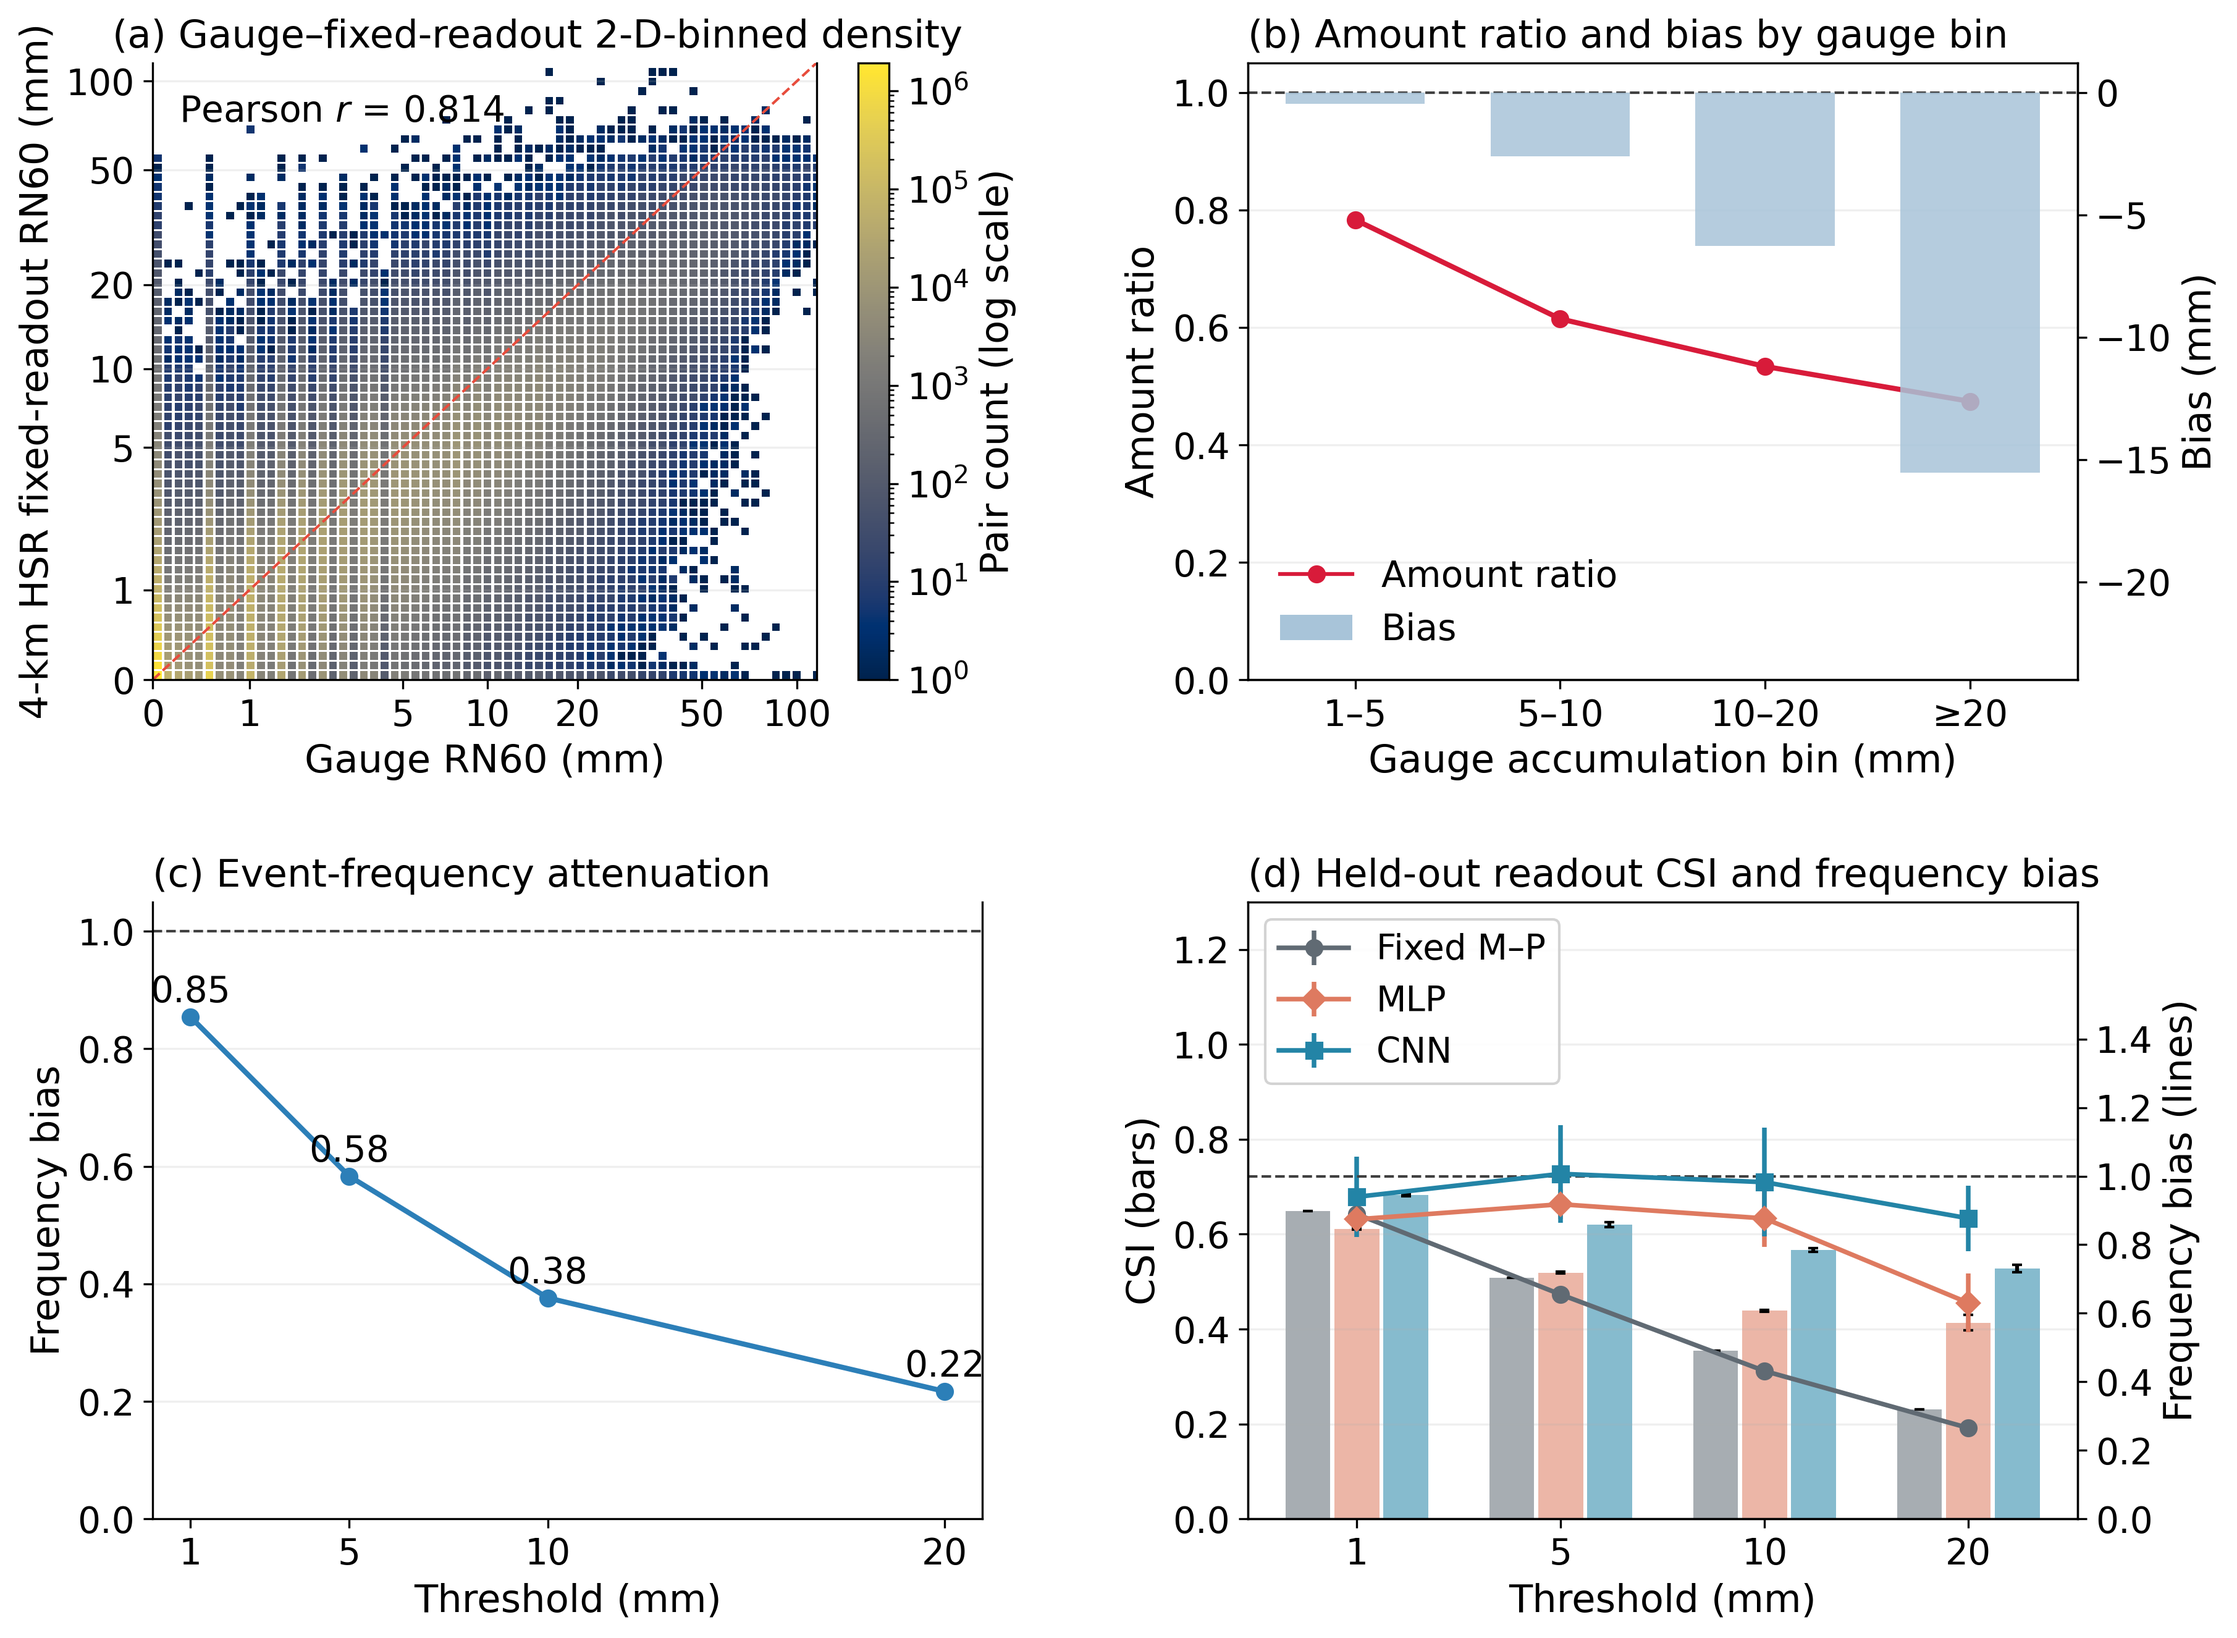
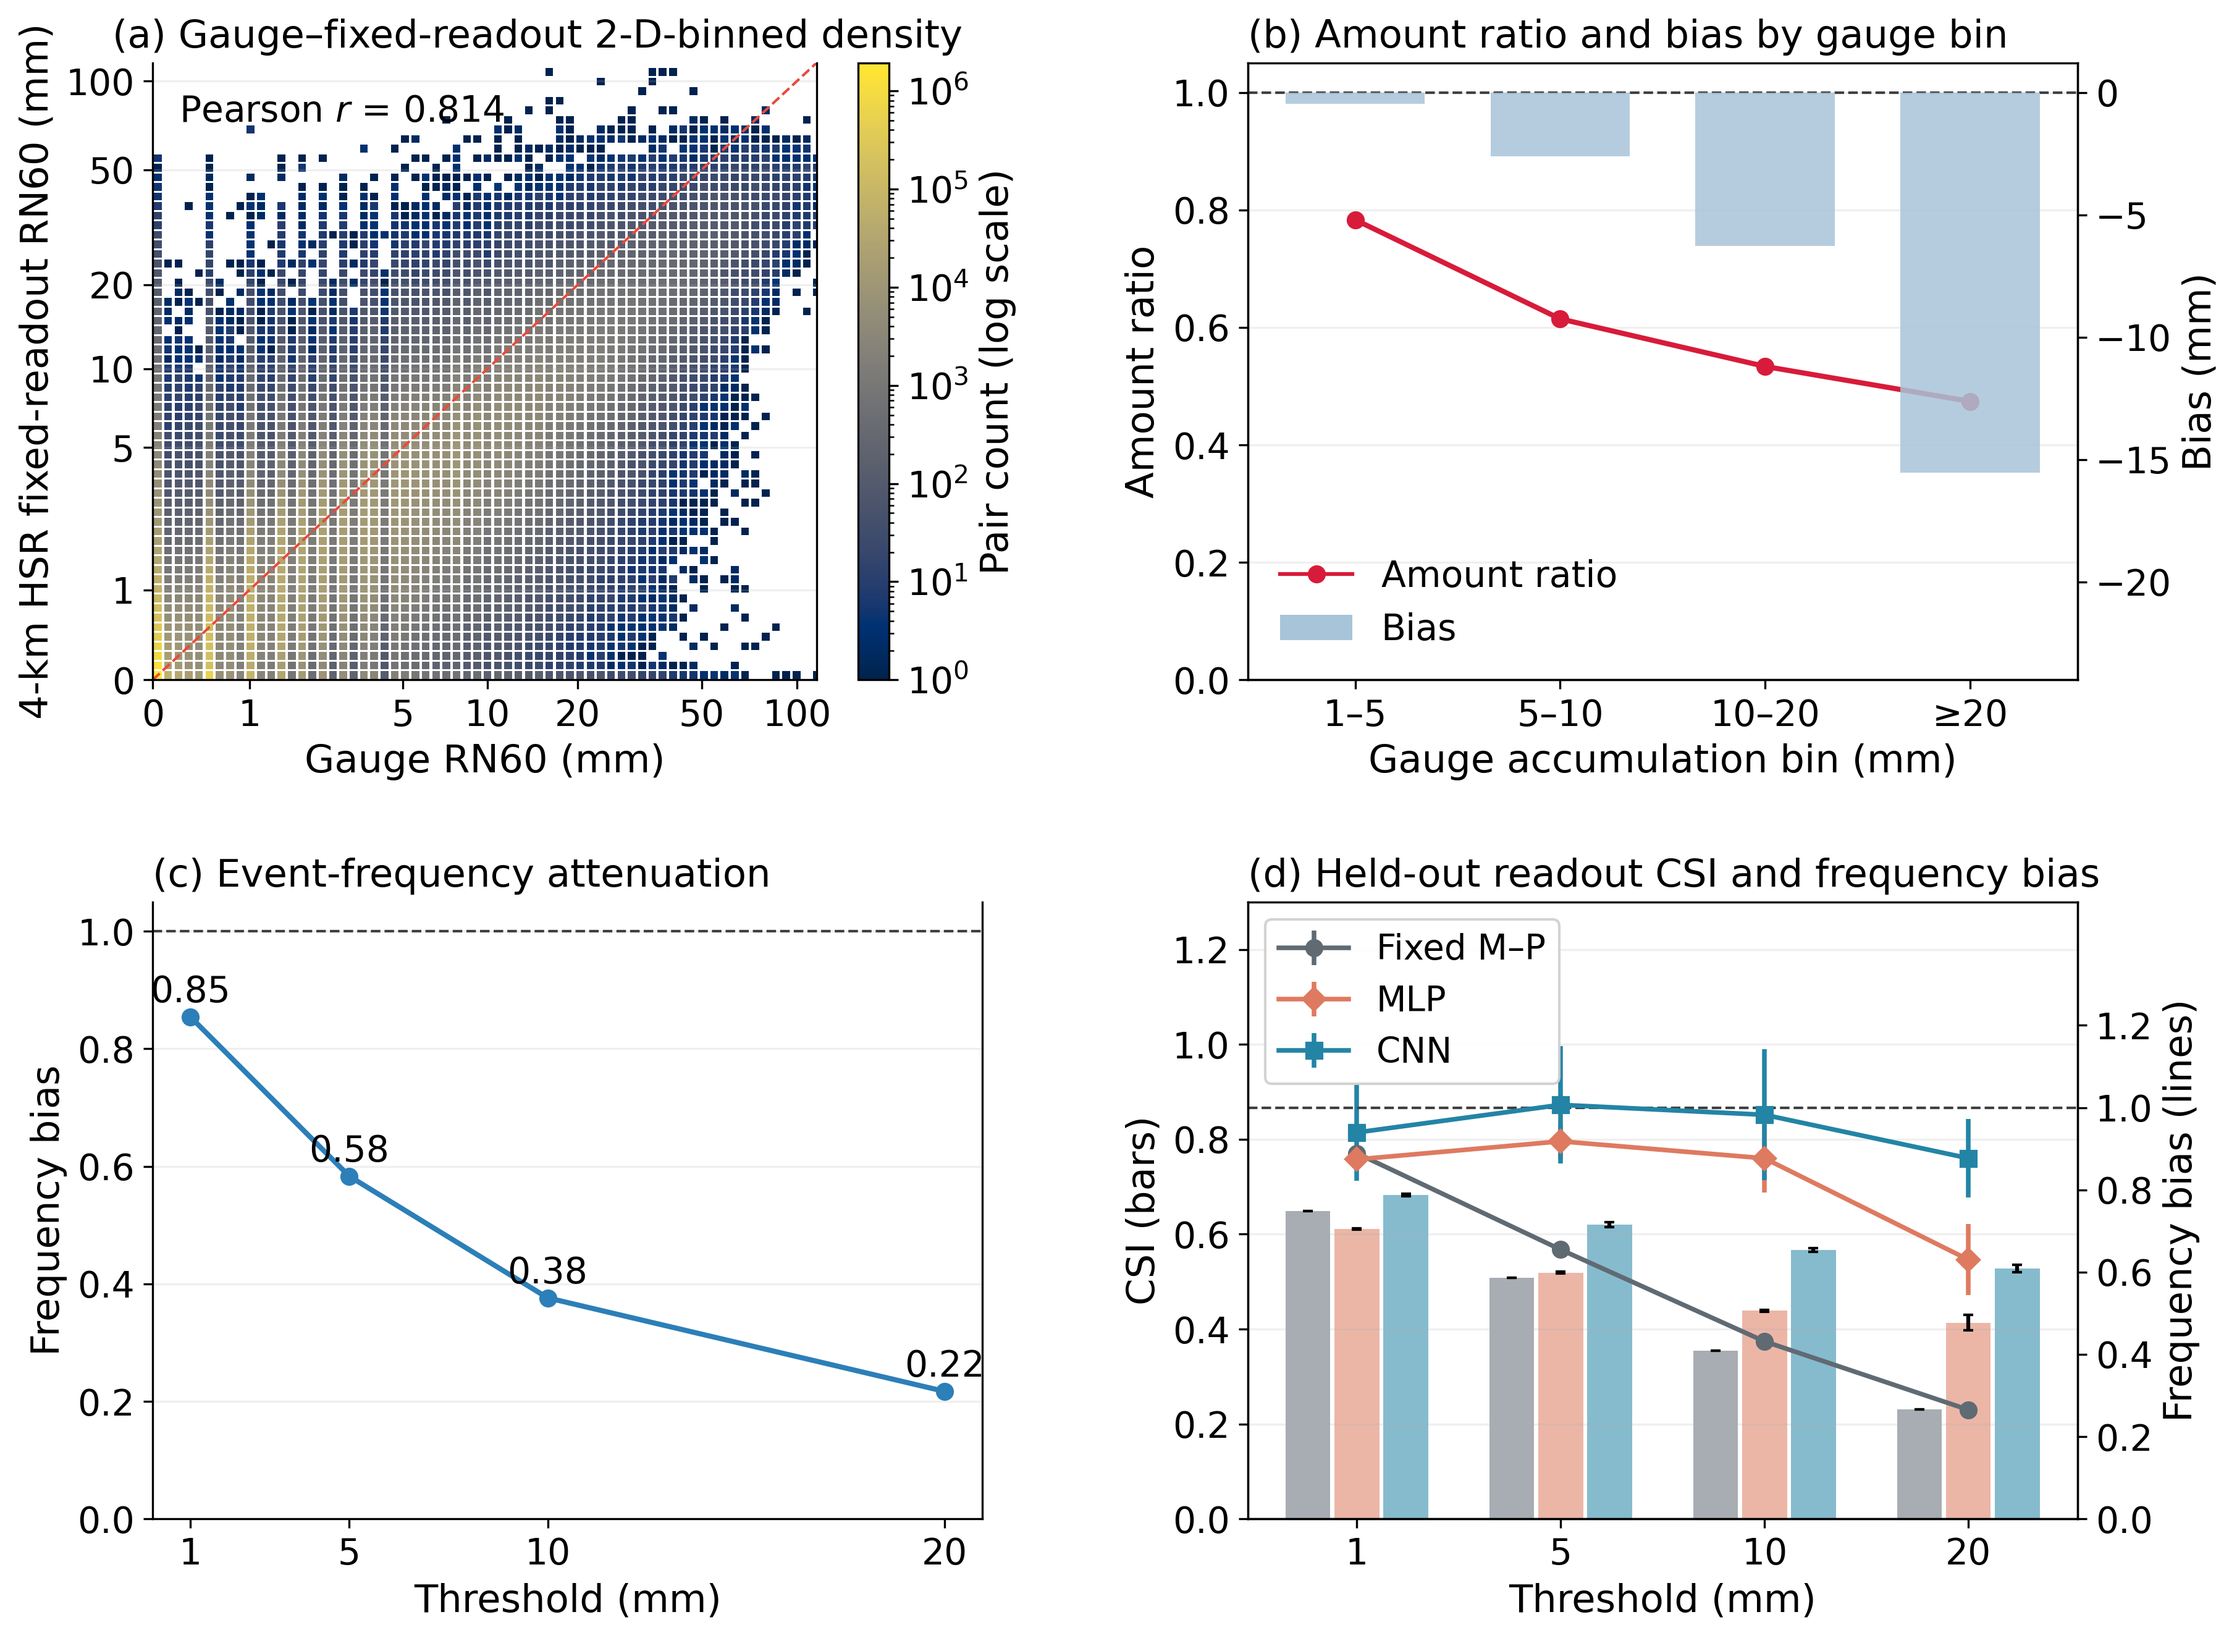
Adjust Figure 2 frequency-bias spacing and synchronize reader figure provenance

diff --git a/tests/test_paper_outputs.py b/tests/test_paper_outputs.py
@@ -17,7 +17,7 @@ from paper_outputs.render_publication import (
     render_figure_s4,
     render_table1,
 )
-from paper_outputs import render_restricted
+from paper_outputs import render_publication, render_restricted
 
 
 ROOT = Path(__file__).resolve().parents[1]
@@ -72,6 +72,25 @@ def test_all_public_aggregate_renderers(tmp_path: Path) -> None:
         png, pdf = renderer()
         assert png.is_file() and png.stat().st_size > 5_000
         assert pdf.is_file() and pdf.stat().st_size > 1_000
+
+
+def test_figure2_frequency_bias_axis_spacing(
+    tmp_path: Path, monkeypatch: pytest.MonkeyPatch
+) -> None:
+    def inspect_and_close(figure, _output):
+        axis = next(
+            axis for axis in figure.axes
+            if axis.get_ylabel() == "Frequency bias (lines)"
+        )
+        assert axis.get_ylim() == (0.0, 1.5)
+        np.testing.assert_allclose(axis.get_yticks(), np.arange(0.0, 1.21, 0.2))
+        # The unit-bias reference now occupies the former 1.2 / 1.8 height.
+        assert 1.0 / axis.get_ylim()[1] == pytest.approx(1.2 / 1.8)
+        render_publication.plt.close(figure)
+        return tmp_path / "figure2.png", tmp_path / "figure2.pdf"
+
+    monkeypatch.setattr(render_publication, "save", inspect_and_close)
+    render_figure2(ROOT / "data/paper_aggregates", tmp_path)
 
 
 def _station_split() -> pd.DataFrame:

diff --git a/src/paper_outputs/render_publication.py b/src/paper_outputs/render_publication.py
@@ -198,8 +198,8 @@ def render_figure2(data: Path, output: Path) -> tuple[Path, Path]:
     ax.set(xticks=np.arange(4), xticklabels=["1", "5", "10", "20"], ylim=(0, 1.3),
            xlabel="Threshold (mm)", ylabel="CSI (bars)")
     ax2.set(
-        ylim=(0, 1.8),
-        yticks=np.arange(0.0, 1.41, 0.2),
+        ylim=(0, 1.5),
+        yticks=np.arange(0.0, 1.21, 0.2),
         ylabel="Frequency bias (lines)",
     )
     ax2.legend(
